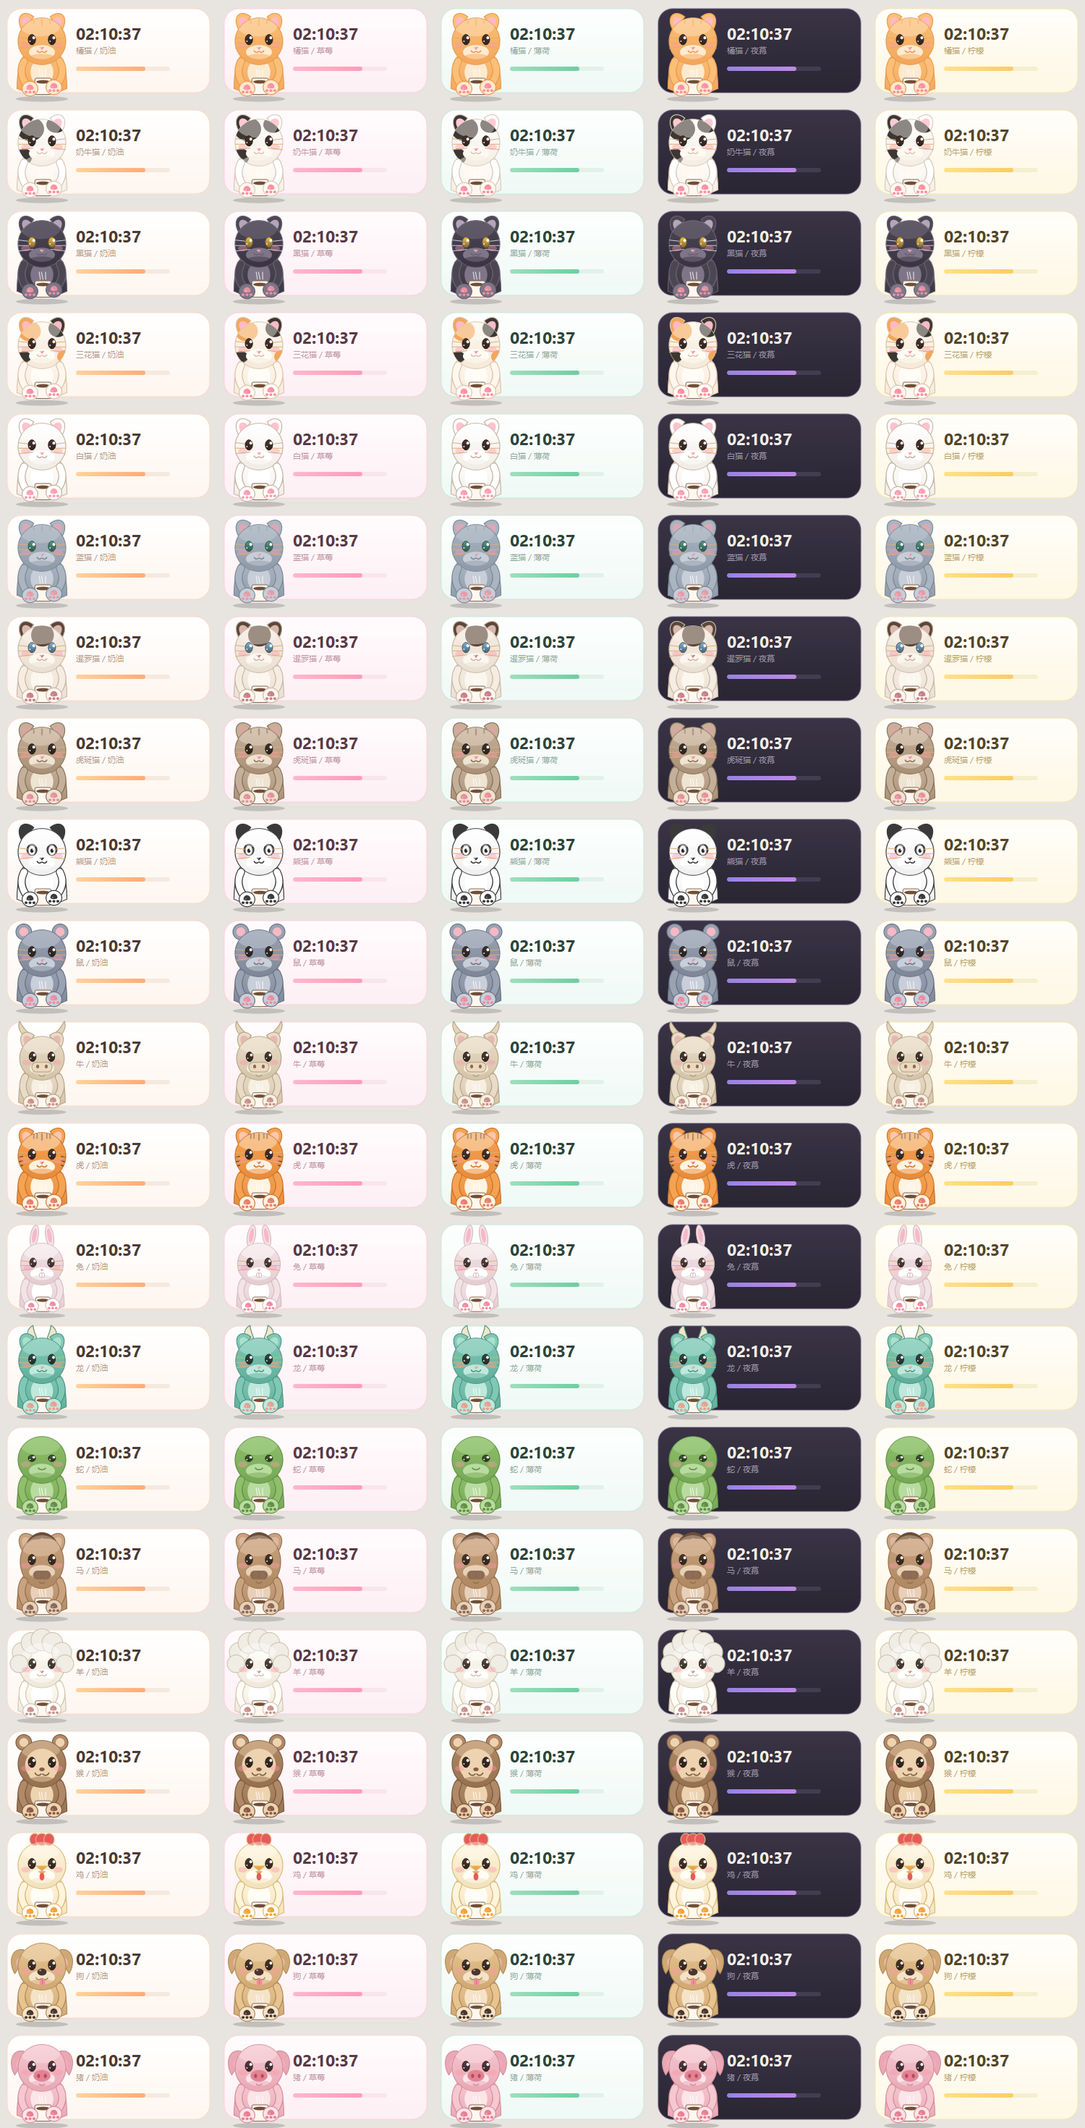
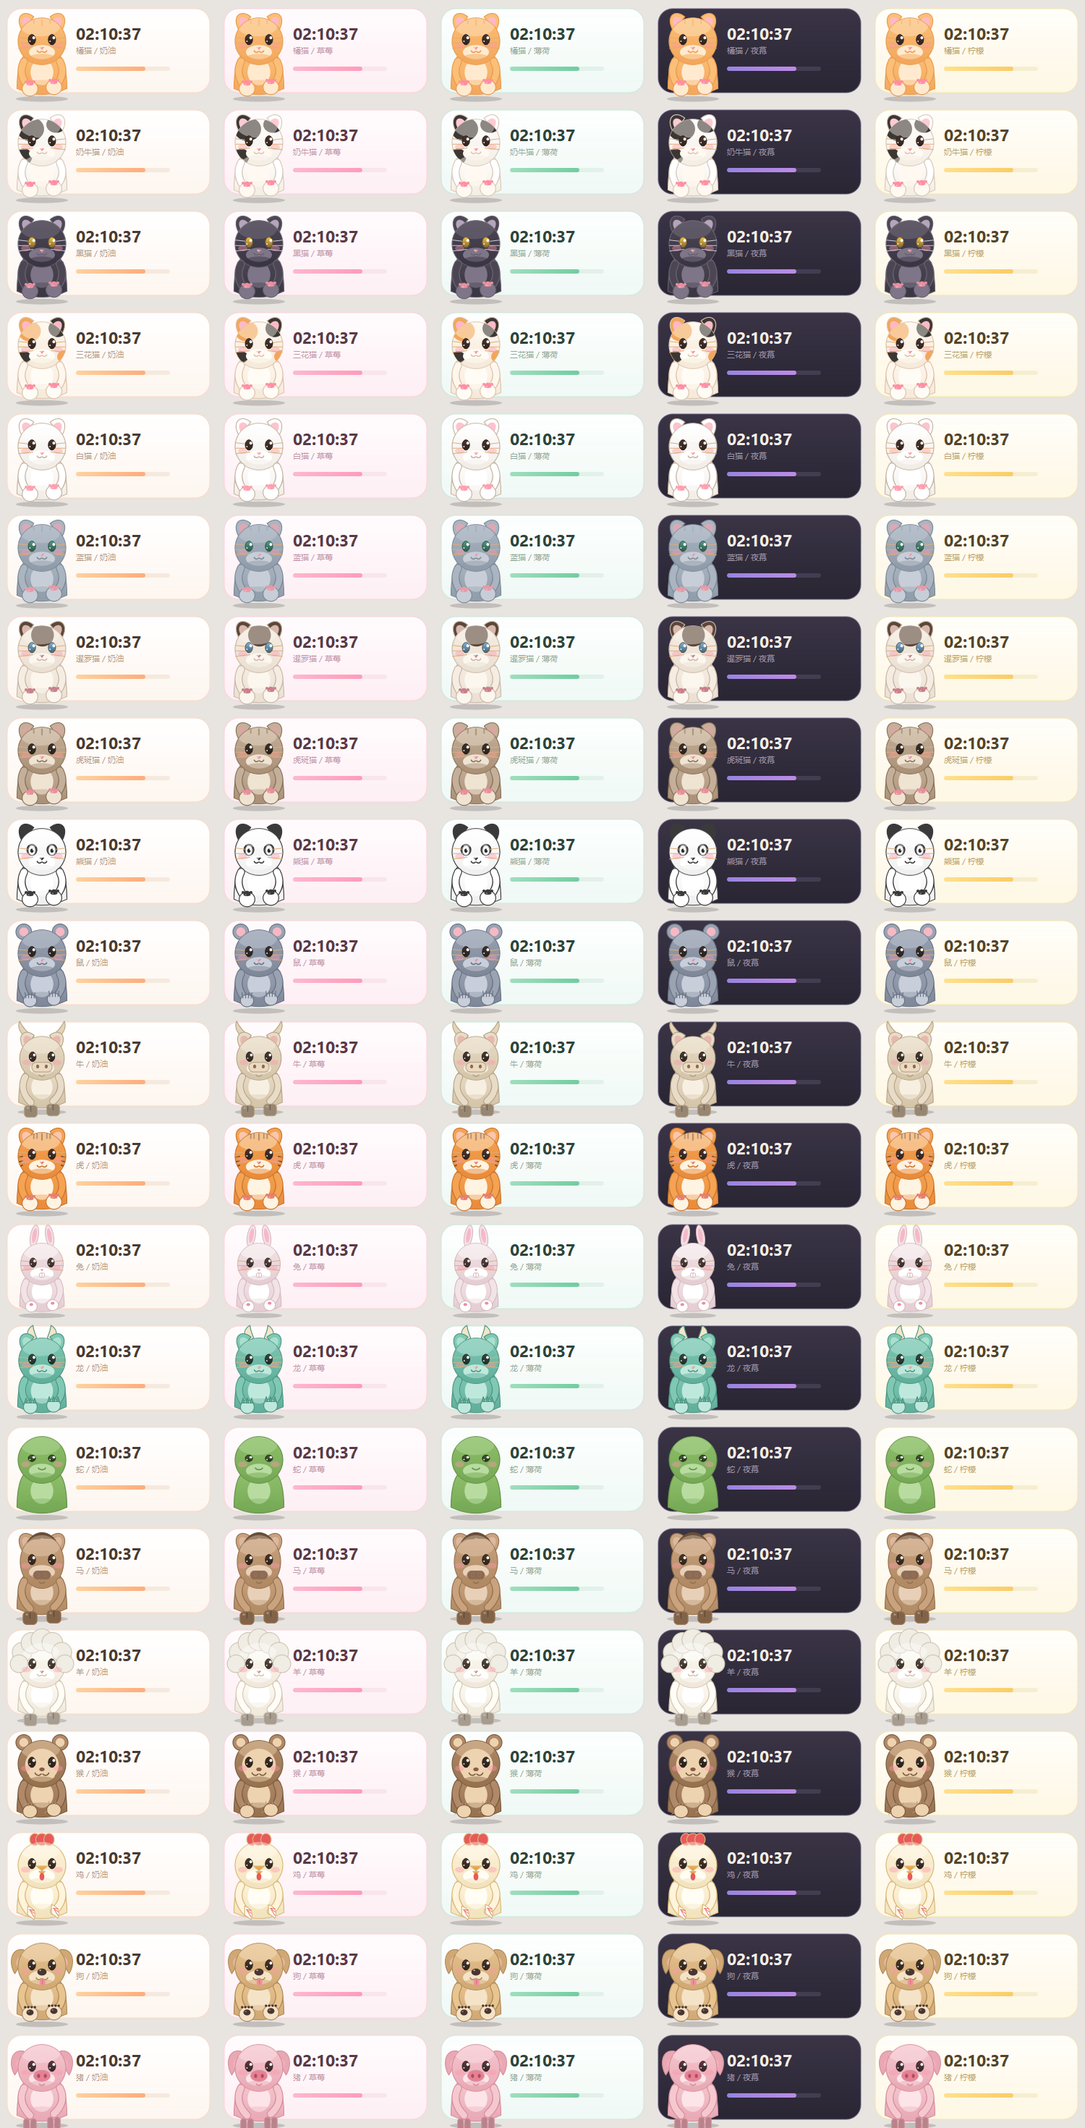
不同物种不同手型：_HAND 映射 + _draw_hand 统一按掌心法向旋转。猫爪/狗爪/蹄/偶蹄/猴手/鸡翅/龙爪/鼠指/兔绒掌/蛇无手；姿态 palm_n 控制垂手肉垫朝内、捧杯掌心朝上、欢呼掌心朝前

diff --git a/cat_clock.py b/cat_clock.py
@@ -476,39 +476,131 @@ def font(name, size, weight=None, style_hint=None):
 # ======================================================================
 # 猫猫绘制
 # ======================================================================
-def _draw_paw(p, x, y, s, colors, outline, flip_x=False, flip_y=False):
-    """画一只爪掌（猫手）。flip_x/flip_y 控制肉垫朝向：
-    flip_x=True 肉垫翻向手掌内侧（左右手朝身体），flip_y=True 掌心朝上。"""
-    r = s * 0.145
+def _draw_paw(p, x, y, s, colors, outline, r):
+    """标准掌心朝上的猫爪（局部标准方向：肉垫在 y- 侧）。由 _draw_hand 统一旋转。"""
     p.setPen(outline)
     p.setBrush(QColor(colors["fur_l"]))
     p.drawEllipse(QRectF(x - r, y - r * 0.94, 2 * r, 1.88 * r))
-    # 肉垫整体按 flip_x/flip_y 镜像，让掌心方向正确
-    p.save()
-    p.translate(x, y)
-    p.scale(-1.0 if flip_x else 1.0, -1.0 if flip_y else 1.0)
-    p.translate(-x, -y)
-    # 三颗小趾垫（沿掌上缘）
+    # 小趾垫（在椭圆上方，即掌心侧）
     p.setPen(Qt.PenStyle.NoPen)
     p.setBrush(QColor(colors["nose"]))
     for dx in (-0.50, 0.0, 0.50):
-        p.drawEllipse(QRectF(x + dx * r - r * 0.19, y - r * 0.60,
+        p.drawEllipse(QRectF(x + dx * r - r * 0.19, y - r * 1.06,
                              r * 0.38, r * 0.34))
-    # 大肉垫（心形）
+    # 大肉垫（心形，在掌心侧）
     pad = QPainterPath()
-    pad.moveTo(x - r * 0.44, y - r * 0.06)
-    pad.quadTo(x - r * 0.50, y + r * 0.44, x, y + r * 0.54)
-    pad.quadTo(x + r * 0.50, y + r * 0.44, x + r * 0.44, y - r * 0.06)
-    pad.quadTo(x, y - r * 0.26, x - r * 0.44, y - r * 0.06)
+    pad.moveTo(x - r * 0.44, y - r * 0.50)
+    pad.quadTo(x - r * 0.50, y - r * 1.00, x, y - r * 1.10)
+    pad.quadTo(x + r * 0.50, y - r * 1.00, x + r * 0.44, y - r * 0.50)
+    pad.quadTo(x, y - r * 0.30, x - r * 0.44, y - r * 0.50)
     pad.closeSubpath()
-    p.setPen(Qt.PenStyle.NoPen)
-    p.setBrush(QColor(colors["nose"]))
     p.drawPath(pad)
-    # 高光让肉垫有立体感
+    # 高光
     p.setBrush(QColor(255, 255, 255, 90))
-    p.drawEllipse(QRectF(x - r * 0.26, y - r * 0.02, r * 0.22, r * 0.16))
-    p.restore()
+    p.drawEllipse(QRectF(x - r * 0.26, y - r * 0.66, r * 0.22, r * 0.16))
 
+
+def _draw_hand(p, x, y, s, colors, outline, kind="paw", palm_nx=0, palm_ny=1):
+    """按物种画手。掌心法向 (palm_nx, palm_ny) 决定手掌朝向：
+    (0,-1)=掌心朝上 / (0,1)=掌心朝下 / (±1,0)=掌心朝身体侧。
+    kind: paw / dog_paw / hoof / cloven / monkey / wing / claw / fingers / puff_paw / none。
+    """
+    if kind == "none":
+        return
+    r = s * 0.145
+    p.save()
+    p.translate(x, y)
+    angle = math.degrees(math.atan2(palm_nx, -palm_ny))
+    p.rotate(angle)
+    p.translate(-x, -y)
+    p.setRenderHint(QPainter.RenderHint.Antialiasing, True)
+    p.setPen(outline)
+
+    if kind == "hoof":                                  # 马 / 牛 / 羊：单蹄
+        hc = _mix(colors["fur_d"], "#3B2A22", 0.40)
+        p.setBrush(QColor(hc))
+        p.drawRoundedRect(QRectF(x - r * 0.88, y + r * 0.40, r * 1.76, r * 1.60),
+                          r * 0.46, r * 0.46)
+        p.setPen(QPen(_mix(hc, "#000000", 0.32), max(1.0, s * 0.013)))
+        p.setBrush(Qt.BrushStyle.NoBrush)
+        p.drawLine(QPointF(x, y + r * 0.50), QPointF(x, y + r * 1.20))
+        p.setPen(Qt.PenStyle.NoPen)
+        p.setBrush(QColor(255, 255, 255, 70))
+        p.drawEllipse(QRectF(x - r * 0.58, y + r * 0.60, r * 0.34, r * 0.28))
+    elif kind == "cloven":                              # 猪：两瓣蹄（朝下）
+        hc = _mix(colors["fur_d"], "#3B2A22", 0.28)
+        p.setBrush(QColor(hc))
+        for dx in (-0.44, 0.44):
+            p.drawRoundedRect(QRectF(x + dx * r - r * 0.36, y + r * 0.42,
+                                     r * 0.72, r * 1.56), r * 0.32, r * 0.32)
+    elif kind == "monkey":                              # 猴：肉色掌 + 五指（朝上）
+        pc = colors.get("ear_in") or "#F5CBA7"
+        p.setBrush(QColor(pc))
+        p.drawEllipse(QRectF(x - r * 0.92, y - r * 0.82, r * 1.84, r * 1.64))
+        p.setPen(QPen(_mix(pc, "#6B4A33", 0.45), max(1.0, s * 0.013),
+                      Qt.PenStyle.SolidLine, Qt.PenCapStyle.RoundCap))
+        p.setBrush(Qt.BrushStyle.NoBrush)
+        for dx in (-0.56, -0.19, 0.19, 0.56):           # 四指
+            p.drawLine(QPointF(x + dx * r, y - r * 0.70),
+                       QPointF(x + dx * r * 1.12, y - r * 1.06))
+        p.drawLine(QPointF(x - r * 0.82, y + r * 0.08),  # 拇指
+                   QPointF(x - r * 1.16, y + r * 0.34))
+    elif kind == "wing":                                # 鸡：翅膀向上展开
+        wc = colors.get("comb") or colors["fur_d"]
+        p.setBrush(QColor(colors["fur_l"]))
+        wp = QPainterPath()
+        wp.moveTo(x - r * 0.30, y - r * 0.85)
+        wp.quadTo(x + r * 1.00, y - r * 0.35, x + r * 0.50, y + r * 0.90)
+        wp.quadTo(x + r * 0.06, y + r * 0.50, x - r * 0.30, y + r * 0.28)
+        wp.closeSubpath()
+        p.drawPath(wp)
+        p.setPen(QPen(QColor(wc), max(1.0, s * 0.013),
+                      Qt.PenStyle.SolidLine, Qt.PenCapStyle.RoundCap))
+        p.setBrush(Qt.BrushStyle.NoBrush)
+        for k in (0.18, 0.52, 0.86):
+            p.drawLine(QPointF(x - r * 0.12 + r * k * 0.26, y - r * 0.42 + r * k * 0.30),
+                       QPointF(x + r * 0.52, y - r * 0.52 + r * k * 1.20))
+    elif kind == "claw":                                # 龙：掌 + 三只利爪（朝上）
+        p.setBrush(QColor(colors["fur_l"]))
+        p.drawEllipse(QRectF(x - r * 0.90, y - r * 0.86, r * 1.80, r * 1.72))
+        p.setPen(outline)
+        p.setBrush(QColor(colors["fur_d"]))
+        for dx in (-0.56, 0.0, 0.56):
+            tri = QPainterPath()
+            tri.moveTo(x + dx * r - r * 0.21, y - r * 0.52)
+            tri.lineTo(x + dx * r + r * 0.21, y - r * 0.52)
+            tri.lineTo(x + dx * r, y - r * 1.14)
+            tri.closeSubpath()
+            p.drawPath(tri)
+    elif kind == "fingers":                             # 鼠：细指小手（朝上）
+        p.setBrush(QColor(colors["fur_l"]))
+        p.drawEllipse(QRectF(x - r * 0.84, y - r * 0.78, r * 1.68, r * 1.56))
+        p.setPen(QPen(outline.color(), max(1.2, s * 0.015),
+                      Qt.PenStyle.SolidLine, Qt.PenCapStyle.RoundCap))
+        p.setBrush(Qt.BrushStyle.NoBrush)
+        for dx in (-0.60, -0.20, 0.20, 0.60):
+            p.drawLine(QPointF(x + dx * r * 0.86, y - r * 0.34),
+                       QPointF(x + dx * r * 1.06, y - r * 1.02))
+    elif kind == "puff_paw":                            # 兔：小绒掌 + 淡粉垫
+        p.setBrush(QColor(colors["fur_l"]))
+        p.drawEllipse(QRectF(x - r * 0.82, y - r * 0.78, r * 1.64, r * 1.56))
+        p.setPen(Qt.PenStyle.NoPen)
+        p.setBrush(QColor(colors["nose"]))
+        p.drawEllipse(QRectF(x - r * 0.27, y - r * 0.48, r * 0.54, r * 0.42))
+    elif kind == "dog_paw":                             # 狗：四趾 + 大肉垫
+        p.setBrush(QColor(colors["fur_l"]))
+        p.drawEllipse(QRectF(x - r, y - r * 0.94, 2 * r, 1.88 * r))
+        p.setPen(Qt.PenStyle.NoPen)
+        p.setBrush(QColor(colors["nose"]))
+        for dx in (-0.62, -0.21, 0.21, 0.62):
+            p.drawEllipse(QRectF(x + dx * r - r * 0.15, y - r * 1.02,
+                                 r * 0.30, r * 0.30))
+        p.drawEllipse(QRectF(x - r * 0.46, y - r * 0.58, r * 0.92, r * 0.76))
+        p.setBrush(QColor(255, 255, 255, 80))
+        p.drawEllipse(QRectF(x - r * 0.30, y - r * 0.40, r * 0.26, r * 0.18))
+    else:                                               # paw：猫爪
+        _draw_paw(p, x, y, s, colors, outline, r)
+    p.restore()
 
 def _draw_arm(p, sx, sy, ex, ey, bx, by, s, colors, outline):
     """画一条带描边的手臂（二次贝塞尔），末端自然过渡到爪掌位置。"""
@@ -1165,159 +1257,62 @@ def draw_cat(p, cx, cy, s, colors=None, blink=False, excited=False, sleepy=False
         sy0 = cy + 0.38 * s                          # 肩线
         # 默认姿态：双手自然垂在身体两侧（掌心朝身体内侧）
         L = (cx - 0.33 * s, sy0, cx - 0.47 * s, cy + 0.86 * s + sway,
-             cx - 0.55 * s, cy + 0.60 * s, True, False)
+             cx - 0.55 * s, cy + 0.60 * s, 1.0, 0.0)
         R = (cx + 0.33 * s, sy0, cx + 0.47 * s, cy + 0.86 * s - sway,
-             cx + 0.55 * s, cy + 0.60 * s, True, False)
+             cx + 0.55 * s, cy + 0.60 * s, -1.0, 0.0)
         if prop == "coffee":                        # 双手捧杯到身前（掌心朝上）
             L = (cx - 0.33 * s, sy0, cx - 0.22 * s, cy + 0.87 * s + sway,
-                 cx - 0.46 * s, cy + 0.64 * s, False, True)
+                 cx - 0.46 * s, cy + 0.64 * s, 0.0, -1.0)
             R = (cx + 0.33 * s, sy0, cx + 0.22 * s, cy + 0.87 * s - sway,
-                 cx + 0.46 * s, cy + 0.64 * s, False, True)
+                 cx + 0.46 * s, cy + 0.64 * s, 0.0, -1.0)
         elif prop == "coin":                        # 双手捧金币（掌心朝上）
             L = (cx - 0.33 * s, sy0, cx - 0.26 * s, cy + 0.86 * s + sway,
-                 cx - 0.48 * s, cy + 0.66 * s, False, True)
+                 cx - 0.48 * s, cy + 0.66 * s, 0.0, -1.0)
             R = (cx + 0.33 * s, sy0, cx + 0.26 * s, cy + 0.86 * s - sway,
-                 cx + 0.48 * s, cy + 0.66 * s, False, True)
+                 cx + 0.48 * s, cy + 0.66 * s, 0.0, -1.0)
         elif prop == "bag":                         # 右手拎包（掌心朝内/左）
             R = (cx + 0.33 * s, sy0, cx + 0.46 * s, cy + 0.80 * s - sway,
-                 cx + 0.55 * s, cy + 0.58 * s, True, False)
+                 cx + 0.55 * s, cy + 0.58 * s, -1.0, 0.0)
         elif prop == "fan":                         # 右手举扇（掌心朝内/左）
             R = (cx + 0.33 * s, sy0 - 0.02 * s, cx + 0.50 * s, cy + 0.52 * s,
-                 cx + 0.56 * s, cy + 0.42 * s, True, False)
+                 cx + 0.56 * s, cy + 0.42 * s, -1.0, 0.0)
         elif prop == "umbrella":                    # 右手举伞（掌心朝内/左）
             R = (cx + 0.34 * s, sy0 - 0.04 * s, cx + 0.34 * s, cy + 0.14 * s,
-                 cx + 0.52 * s, cy + 0.24 * s, True, False)
+                 cx + 0.52 * s, cy + 0.24 * s, -1.0, 0.0)
         elif prop == "scarf":                       # 冷：双手抱胸（掌心朝内）
             L = (cx - 0.33 * s, sy0, cx - 0.20 * s, cy + 0.78 * s + sway,
-                 cx - 0.44 * s, cy + 0.62 * s, True, False)
+                 cx - 0.44 * s, cy + 0.62 * s, 1.0, 0.0)
             R = (cx + 0.33 * s, sy0, cx + 0.20 * s, cy + 0.78 * s - sway,
-                 cx + 0.44 * s, cy + 0.62 * s, True, False)
+                 cx + 0.44 * s, cy + 0.62 * s, -1.0, 0.0)
         if excited and prop is None:                # 快下班：双手举起欢呼（掌心朝前）
             L = (cx - 0.33 * s, sy0, cx - 0.50 * s, cy + 0.24 * s,
-                 cx - 0.54 * s, cy + 0.30 * s, False, False)
+                 cx - 0.54 * s, cy + 0.30 * s, 0.0, -1.0)
             R = (cx + 0.33 * s, sy0, cx + 0.50 * s, cy + 0.24 * s,
-                 cx + 0.54 * s, cy + 0.30 * s, False, False)
-        if pet_k is not None:                       # 被摸头：双手捧脸（掌心朝上）
+                 cx + 0.54 * s, cy + 0.30 * s, 0.0, -1.0)
+        if pet_k is not None:                       # 被摸头：双手捧脸（掌心朝上偏内）
             k = math.sin(max(0.0, min(1.0, pet_k)) * math.pi) * 0.9
             tgt = ((cx - 0.40 * s, cy + 0.20 * s), (cx + 0.40 * s, cy + 0.20 * s))
             new = []
             for a, (tx, ty) in zip((L, R), tgt):
+                nx = 0.55 if a[2] < cx else -0.55   # 掌心朝脸（内侧 + 上）
+                ny = -0.84
                 new.append((a[0], a[1],
                             a[2] + (tx - a[2]) * k, a[3] + (ty - a[3]) * k,
                             a[4] + (tx - a[4]) * k * 0.6,
                             a[5] + (ty - a[5]) * k * 0.6,
-                            a[6], True))              # 掌心朝上
+                            nx, ny))
             L, R = new
 
         # 手臂（先画，道具压在臂上、掌再压在道具上 → 视觉上"握着"）
-        for a in (L, R):
-            _draw_arm(p, a[0], a[1], a[2], a[3], a[4], a[5], s, colors, outline)
-
-        if prop == "coffee":                       # 咖啡杯 + 热气
-            cupx, cupy = cx + 0.02 * s, cy + 0.84 * s
-            cw, ch = s * 0.30, s * 0.30
-            p.setPen(QPen(QColor("#8A6A58"), max(1.0, s * 0.014)))
-            p.setBrush(QColor("#FFF8F0"))
-            p.drawRoundedRect(QRectF(cupx - cw / 2, cupy - ch / 2, cw, ch),
-                              s * 0.03, s * 0.03)
-            p.setPen(Qt.PenStyle.NoPen)
-            p.setBrush(QColor("#6F4E37"))
-            p.drawEllipse(QRectF(cupx - cw / 2 + s * 0.025, cupy - ch / 2 + s * 0.035,
-                                 cw - s * 0.05, s * 0.065))
-            p.setPen(QPen(QColor("#FFF8F0"), max(1.4, s * 0.028)))
-            p.setBrush(Qt.BrushStyle.NoBrush)
-            p.drawArc(QRectF(cupx + cw / 2 - s * 0.015, cupy - s * 0.055,
-                             s * 0.13, s * 0.15), -68 * 16, 136 * 16)
-            p.setPen(QPen(QColor(255, 255, 255, 185), max(1.0, s * 0.016),
-                          Qt.PenStyle.SolidLine, Qt.PenCapStyle.RoundCap))
-            for i, dx in enumerate((-0.07, 0.0, 0.07)):
-                ph = t * 1.7 + i * 1.15
-                p.drawLine(QPointF(cupx + dx * s + math.sin(ph) * s * 0.022,
-                                   cupy - ch / 2 - s * 0.03),
-                           QPointF(cupx + dx * s + math.sin(ph + 1.1) * s * 0.032,
-                                   cupy - ch / 2 - s * 0.16))
-            # 杯把（右侧，正好被右爪握住）
-            p.setPen(QPen(QColor("#8A6A58"), max(1.0, s * 0.014),
-                          Qt.PenStyle.SolidLine, Qt.PenCapStyle.RoundCap))
-            p.setBrush(Qt.BrushStyle.NoBrush)
-            p.drawArc(QRectF(cupx + cw / 2 - s * 0.02, cupy - ch / 2 + s * 0.03,
-                             s * 0.11, s * 0.18), -80 * 16, 160 * 16)
-        elif prop == "umbrella":                   # 头顶小伞（伞柄握在右爪里）
-            ux, uy = cx + 0.10 * s, cy - 0.52 * s
-            uw = s * 0.54
-            hx, hy = R[2], R[3]                    # 右爪位置
-            p.setPen(QPen(QColor("#8A6A58"), max(1.2, s * 0.020),
-                          Qt.PenStyle.SolidLine, Qt.PenCapStyle.RoundCap))
-            p.setBrush(Qt.BrushStyle.NoBrush)
-            # 伞柄从手掌心向上插入伞面，并在伞底画小弯钩
-            p.drawLine(QPointF(hx, hy), QPointF(ux, uy + s * 0.02))
-            p.drawArc(QRectF(ux - s * 0.13, uy - s * 0.13, s * 0.26, s * 0.24),
-                      -90 * 16, 180 * 16)
-            p.setPen(QPen(QColor("#3F86AE"), max(1.0, s * 0.014)))
-            p.setBrush(QColor("#6FB3DC"))
-            up = QPainterPath()
-            up.moveTo(ux - uw, uy)
-            up.quadTo(ux, uy - s * 0.36, ux + uw, uy)
-            up.quadTo(ux + uw * 0.50, uy + s * 0.07, ux, uy + s * 0.025)
-            up.quadTo(ux - uw * 0.50, uy + s * 0.07, ux - uw, uy)
-            up.closeSubpath()
-            p.drawPath(up)
-        elif prop == "fan":                        # 扇子（随 t 摆动）
-            fx, fy = cx + 0.56 * s, cy + 0.40 * s
-            p.save()
-            p.translate(fx, fy)
-            p.rotate(math.sin(t * 3.2) * 20)
-            p.setPen(QPen(QColor("#C0566B"), max(1.0, s * 0.014)))
-            p.setBrush(QColor("#F4B8C4"))
-            fp = QPainterPath()
-            fp.moveTo(0, s * 0.20)
-            fp.lineTo(-s * 0.21, -s * 0.10)
-            fp.quadTo(0, -s * 0.22, s * 0.21, -s * 0.10)
-            fp.closeSubpath()
-            p.drawPath(fp)
-            # 扇柄，握在爪掌里
-            p.setPen(QPen(QColor("#8A6A58"), max(1.0, s * 0.014),
-                          Qt.PenStyle.SolidLine, Qt.PenCapStyle.RoundCap))
-            p.drawLine(QPointF(0, s * 0.20), QPointF(0, s * 0.42))
-            p.setPen(Qt.PenStyle.NoPen)
-            p.setBrush(QColor("#C9A882"))
-            p.drawEllipse(QRectF(-s * 0.03, s * 0.39, s * 0.06, s * 0.07))
-            p.restore()
-        elif prop == "scarf":                      # 围巾
-            sy2 = cy + 0.50 * s
-            p.setPen(QPen(QColor("#A8455C"), max(1.0, s * 0.014)))
-            p.setBrush(QColor("#E2687E"))
-            p.drawRoundedRect(QRectF(cx - 0.32 * s, sy2, 0.64 * s, 0.17 * s),
-                              s * 0.08, s * 0.08)
-            p.drawRoundedRect(QRectF(cx + 0.14 * s, sy2 + 0.11 * s, 0.15 * s, 0.32 * s),
-                              s * 0.07, s * 0.07)
-        elif prop == "coin":                       # 金币
-            cxx, cyy = cx, cy + 0.84 * s
-            p.setPen(QPen(QColor("#C9922A"), max(1.0, s * 0.014)))
-            p.setBrush(QColor("#FFD34D"))
-            p.drawEllipse(QRectF(cxx - s * 0.14, cyy - s * 0.14, s * 0.28, s * 0.28))
-            p.setPen(QPen(QColor("#B07C1E"), max(1.0, s * 0.013)))
-            p.setBrush(Qt.BrushStyle.NoBrush)
-            p.drawEllipse(QRectF(cxx - s * 0.09, cyy - s * 0.09, s * 0.18, s * 0.18))
-            p.setPen(QColor("#A87618"))
-            p.setFont(font("Microsoft YaHei", max(7, int(s * 0.15)), QFont.Weight.Bold))
-            p.drawText(QRectF(cxx - s * 0.15, cyy - s * 0.15, s * 0.30, s * 0.30),
-                       Qt.AlignmentFlag.AlignCenter, "¥")
-        elif prop == "bag":                        # 拎包（垂在右爪下方）
-            bx2, by2 = cx + 0.50 * s, cy + 0.92 * s
-            bw2, bh2 = s * 0.32, s * 0.26
-            p.setPen(QPen(QColor("#8A6A58"), max(1.0, s * 0.014)))
-            p.setBrush(QColor("#C9A882"))
-            p.drawRoundedRect(QRectF(bx2 - bw2 / 2, by2 - bh2 / 2, bw2, bh2),
-                              s * 0.05, s * 0.05)
-            p.setBrush(Qt.BrushStyle.NoBrush)
-            p.setPen(QPen(QColor("#8A6A58"), max(1.0, s * 0.018)))
-            p.drawArc(QRectF(bx2 - s * 0.11, by2 - bh2 / 2 - s * 0.17,
-                             s * 0.22, s * 0.26), 0, 180 * 16)
-
-        # 爪掌画在道具之上 → 看起来是"握住/捧着"
-        for a in (L, R):
-            _draw_paw(p, a[2], a[3], s, colors, outline, flip_x=a[6], flip_y=a[7])
+        hand_kind = _HAND.get(colors.get("shape", "cat"), "paw")
+        if hand_kind != "none":
+            for a in (L, R):
+                _draw_arm(p, a[0], a[1], a[2], a[3], a[4], a[5], s, colors, outline)
+        # 手画在道具之上 → 看起来是"握住/捧着"（蛇无手）
+        if hand_kind != "none":
+            for a in (L, R):
+                _draw_hand(p, a[2], a[3], s, colors, outline, hand_kind,
+                           palm_nx=a[6], palm_ny=a[7])
 
     # ---- Zzz ----
     if sleepy:
@@ -1595,6 +1590,11 @@ _TOP_EXT = {"rabbit": 0.86, "ox": 0.76, "dragon": 0.70,
 _TAIL = {"rabbit": "puff", "sheep": "puff", "dog": "curl_up", "pig": "curl",
          "horse": "brush", "ox": "brush", "dragon": "fin", "snake": "coil",
          "rooster": "feather", "rat": "whip", "monkey": "long"}
+
+# 各物种的手型（默认 paw = 猫爪；snake 无手，连手臂一起省略）
+_HAND = {"rat": "fingers", "ox": "hoof", "tiger": "paw", "rabbit": "puff_paw",
+         "dragon": "claw", "snake": "none", "horse": "hoof", "sheep": "hoof",
+         "monkey": "monkey", "rooster": "wing", "dog": "dog_paw", "pig": "cloven"}
 
 # 状态 → 手上的道具
 PROP_BY_WEATHER = {"rain": "umbrella", "thunder": "umbrella", "snow": "scarf"}
